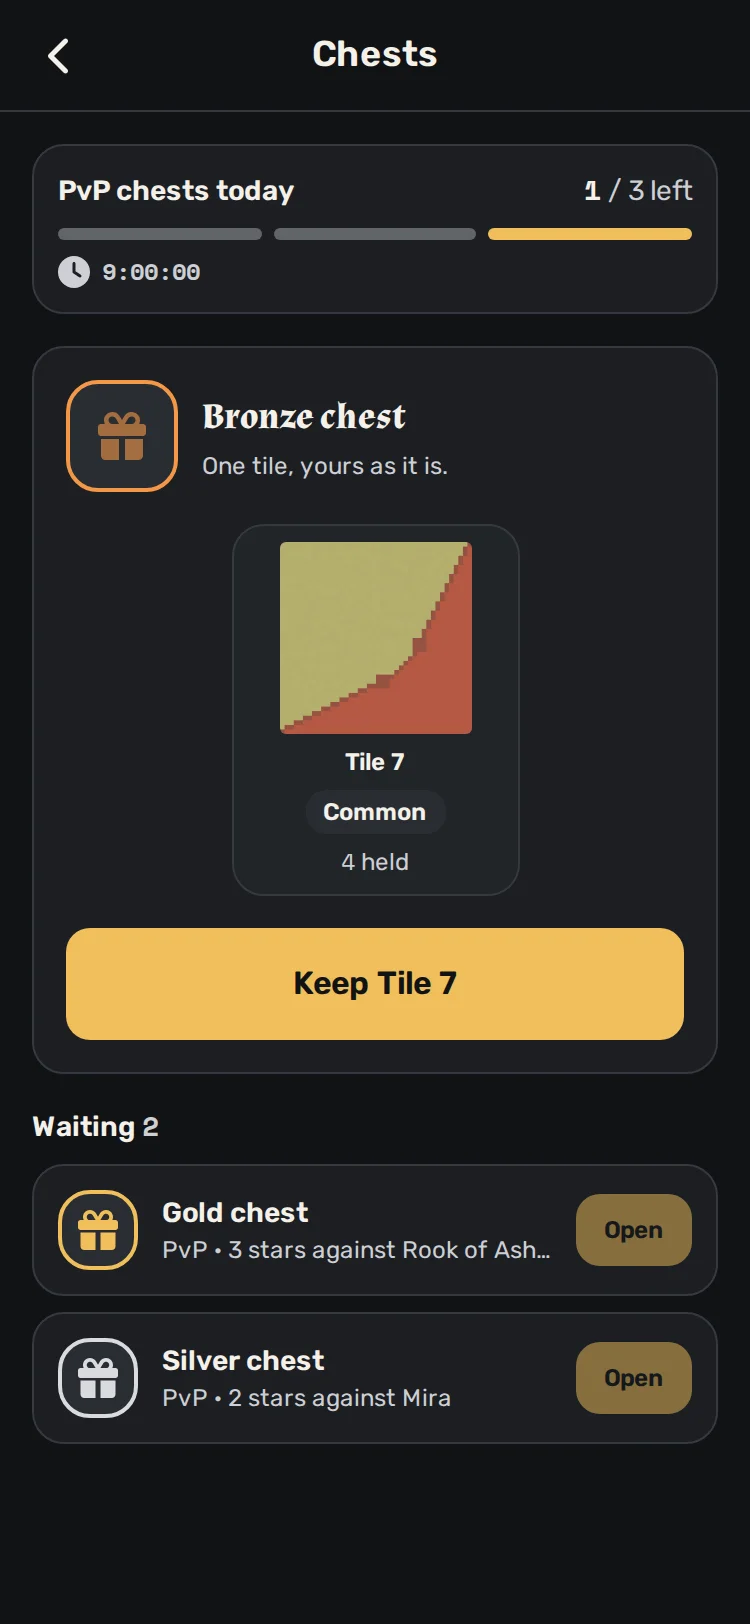
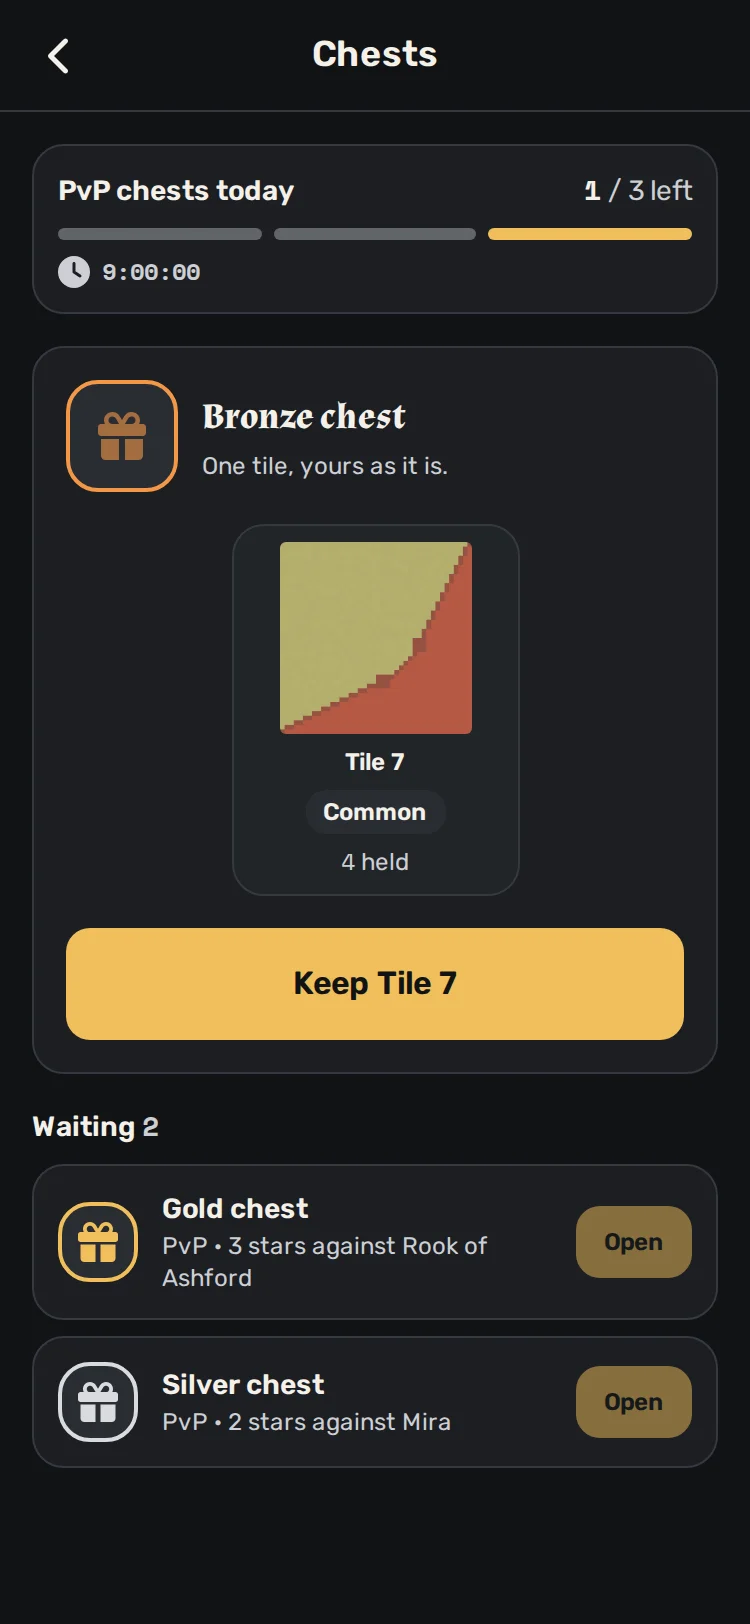
V2-VILLAGE-UI: the v2 stories pass the wrap sweep at 360 and 320 (#739)
The editor's board takes what the header and the editor leave on a phone, so
a short screen scrolls instead of clipping; Discard is its short label; the
chests' labels wrap instead of truncating; the shop's tile is smaller under
360 px; the inventory carousel's track gets the carousels' allowance. The CSS
limit is the measured size again (+137 raw, +39 gzip).

Refs #739

Changed region(s): [[0.0613, 0.7081, 0.92, 0.8929]]

diff --git a/packages/app/src/components/scenes/village-layout-scene.tsx b/packages/app/src/components/scenes/village-layout-scene.tsx
@@ -295,7 +295,7 @@ function LayoutView({
 
   const title = own ? "My village" : `${village.owner}'s village`;
   return (
-    <div className="flex h-dvh flex-col overflow-hidden bg-background">
+    <div className="flex min-h-dvh flex-col bg-background desktop:h-dvh desktop:overflow-hidden">
       <TopBar
         title={editing ? "Edit layout" : title}
         onBack={back}
@@ -345,7 +345,9 @@ function LayoutView({
             tileArt={tileArt}
             onTile={lift}
             onPlate={choosePlate}
-            className="min-h-0 flex-1"
+            // On a phone the board takes what the header and the editor leave (the page scrolls only on a short screen); from
+            // desktop it fills its card.
+            className={cn("flex-none desktop:min-h-0 desktop:flex-1", editing ? "h-[max(14rem,calc(100dvh-30rem))]" : "h-[max(14rem,calc(100dvh-14rem))]", "desktop:h-auto")}
           />
           {own && saved && !editing && (
             <div className="border-t border-border px-4 py-2">
@@ -415,8 +417,8 @@ function LayoutView({
                 <InventoryTray tray={tray} held={hand?.from === "inventory" ? hand.plan : null} full={full} busy={saving} tileArt={tileArt} onSelect={choosePlan} />
                 <div className="flex items-center gap-2">
                   <HoldButton label="Hold to reset all: the starter alone, every tile back in the inventory" title="Hold to reset all" icon="rotate" tone="destructive" holdMs={holdMs} disabled={saving || draft.length <= 1} onComplete={reset} />
-                  <Button variant="outline" className="flex-1" onClick={discard} disabled={!changed || saving}>
-                    Discard changes
+                  <Button variant="outline" className="flex-1" onClick={discard} disabled={!changed || saving} aria-label="Discard changes">
+                    Discard
                   </Button>
                   <Button
                     className="flex-1"

diff --git a/packages/app/src/components/scenes/village-shop-scene.tsx b/packages/app/src/components/scenes/village-shop-scene.tsx
@@ -159,7 +159,7 @@ function OfferCard({ offer, held, cobbles, buying, busy, tileArt, onBuy }: { off
       data-bought={offer.bought || undefined}
       className={cn("flex items-center gap-3 rounded-xl border border-border bg-card p-3 desktop:flex-col desktop:items-stretch desktop:p-4", offer.bought && "opacity-70")}
     >
-      <span className="block size-20 shrink-0 desktop:aspect-square desktop:size-auto desktop:w-full">
+      <span className="block size-14 shrink-0 mobile:size-20 desktop:aspect-square desktop:size-auto desktop:w-full">
         <TileChip plan={offer.plan} art={tileArt} className="size-full rounded-[3px] border-0" />
       </span>
       <div className="flex min-w-0 flex-1 flex-col gap-1">
@@ -174,7 +174,7 @@ function OfferCard({ offer, held, cobbles, buying, busy, tileArt, onBuy }: { off
       </div>
       <div className="flex shrink-0 flex-col items-end gap-1 desktop:items-stretch">
         {offer.bought ? (
-          <span className="flex items-center gap-1 text-xs text-success">
+          <span className="flex items-center gap-1 text-right text-xs text-success">
             <Icon name="circle-check" size="xs" /> Bought today
           </span>
         ) : (

diff --git a/packages/app/scripts/wrap-sweep.ts b/packages/app/scripts/wrap-sweep.ts
@@ -70,6 +70,7 @@ const ALLOWED: (Allowed & { why: string })[] = [
   // The v2 village (#739): its layout board scrolls both ways the same; the editor's inventory is a carousel whose window clips its track.
   { story: /^(scenes-village-v2-layout|containers-layoutboard)--/, kind: "scroll", element: "div[scroll-region]", why: "v2 village scroller" },
   { story: /^(scenes-village-v2-layout|containers-inventorytray)--/, kind: "clip", element: "div[carousel-content]", why: "carousel window" },
+  { story: /^(scenes-village-v2-layout|containers-inventorytray)--/, kind: "overflow", element: 'div "×', why: "carousel track" },
   // The same village board in the PvP result's reward dialog (#647), opened by Choose.
   { story: "scenes-pvp-result--reward-sheet-open", kind: "scroll", element: "div[scroll-region]", why: "village plan scroller" },
   // The avatar creator's part tabs (#626): ten parts do not fit a phone, so the tab list scrolls sideways in a ScrollRegion with

diff --git a/packages/app/src/components/scenes/village-chests-scene.tsx b/packages/app/src/components/scenes/village-chests-scene.tsx
@@ -177,7 +177,7 @@ export function VillageChestsScene({
                         <ChestBadge rank={chest.rank} size="sm" />
                         <div className="flex min-w-0 flex-1 flex-col">
                           <span className="text-sm font-semibold">{CHEST_NAME[chest.rank]}</span>
-                          <span className="truncate text-xs text-muted-foreground">
+                          <span className="text-xs text-muted-foreground">
                             {chest.source === "pvp" ? "PvP" : "Story"} · {chest.label}
                           </span>
                         </div>
